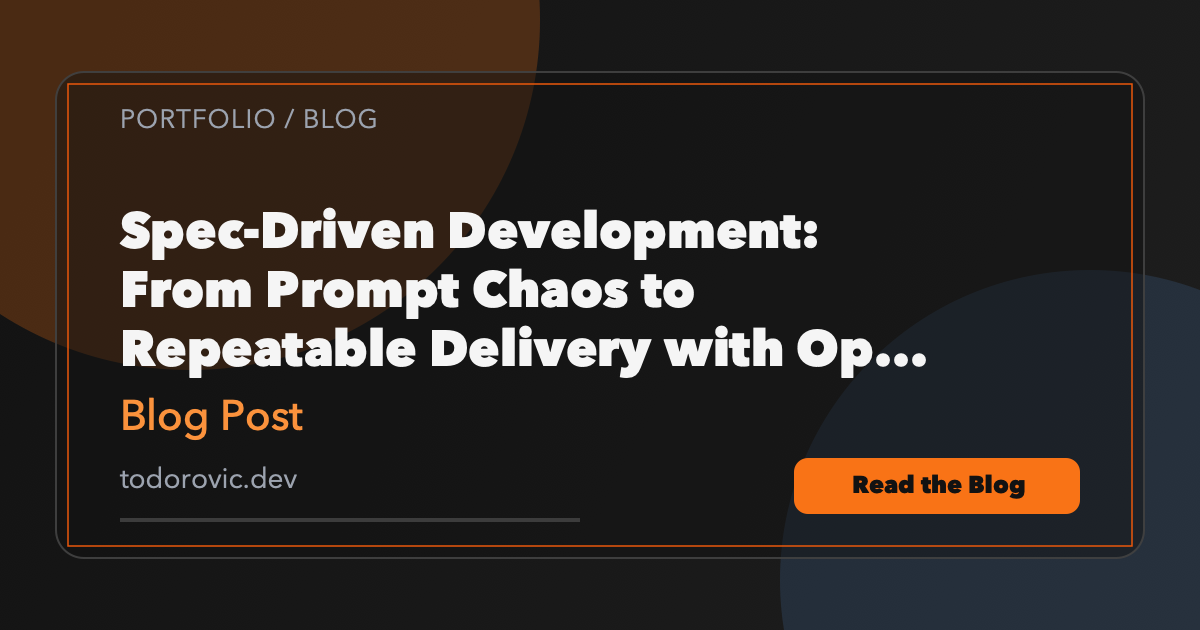
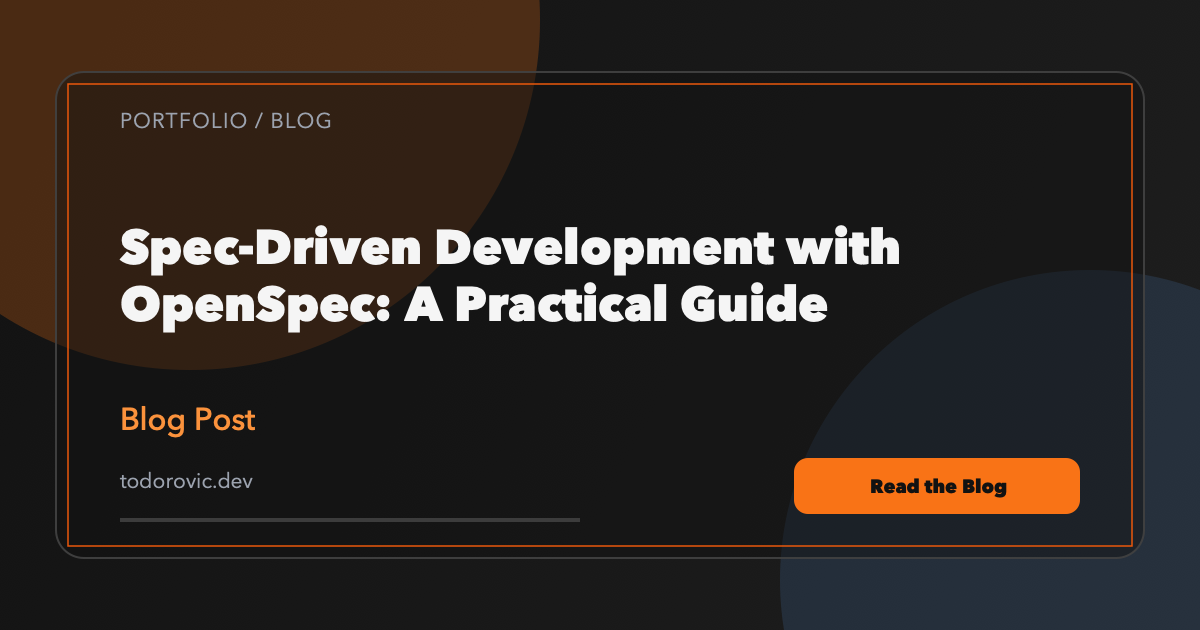
Tone down OG typography and shorten OpenSpec post title

diff --git a/src/content/blog/openspec-blog-authoring-flow.md b/src/content/blog/openspec-blog-authoring-flow.md
@@ -1,5 +1,5 @@
 ---
-title: 'Spec-Driven Development: From Prompt Chaos to Repeatable Delivery with OpenSpec'
+title: 'Spec-Driven Development with OpenSpec: A Practical Guide'
 description: 'A practical, in-depth OpenSpec guide for developers using Codex or Claude Code, from first principles to component-level spec-driven delivery.'
 pubDate: 2026-02-28
 author: 'Dušan Todorović'
